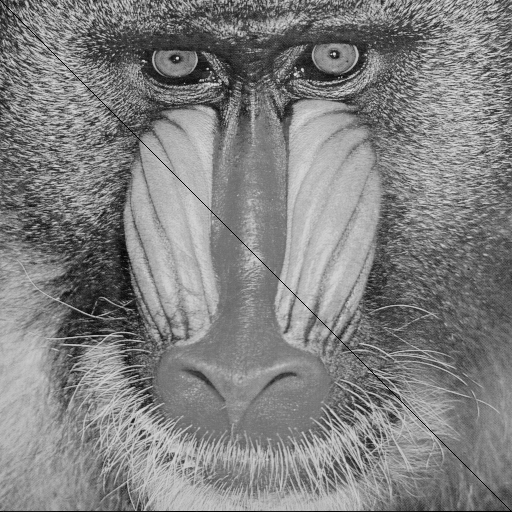
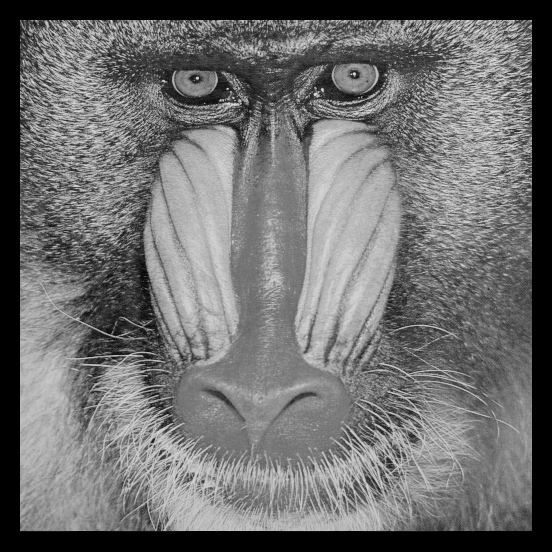
pad image

diff --git a/img_utils.c b/img_utils.c
@@ -1,8 +1,38 @@
+#include <stdlib.h>
+#include <pthread.h>
+
 #define STB_IMAGE_IMPLEMENTATION
 #define STB_IMAGE_WRITE_IMPLEMENTATION
 
 #include "stb_image/stb_image.h"
 #include "stb_image/stb_image_write.h"
+
+#define N_THR 8 
+
+/* pad_line args */
+typedef struct{
+/* 
+pimg: padded image pointer location (h, w, c must be filled)
+img: original image
+p: pad size
+
+The function will pad the lines [start, end-1]
+*/
+    image* pimg;
+    image* img;
+    int p;
+    int start;
+    int end;
+} pad_arg;
+
+void free_img(image* img);
+void read_img(char path[], image* img);
+void write_img(char path[], image img);
+unsigned char read_pixel(image* img, int x, int y);
+void* pad_line(void* args);
+void pad(image* img, image* pimg, int p);
+void free_img(image* img);
+
 
 
 /* 
@@ -43,4 +73,66 @@ unsigned char val: value to store
  */
 void write_pixel(image* img, int x, int y, unsigned char val){
     img->img[y*img->w + x] = val;
+}
+
+
+void* pad_line(void* args){
+/* 
+pads an image with zeros
+pimg: padded image pointer location (h, w, c must be filled)
+img: original image
+p: pad size
+
+The function will pad the lines [start, end-1]
+*/
+    pad_arg* arg = (pad_arg*) args;
+    int start = arg->start;
+    int end = arg->end;
+    int p = arg->p;
+    image* img = arg->img;
+    image* pimg = arg->pimg;
+
+    for (int i=start; i<end; i++){
+        for (int j=0; j<pimg->w; j++){
+            if (i<p || j<p || i>=pimg->h-p || j>=pimg->w-p){
+                write_pixel(pimg, j, i, 0);
+            }
+            else{
+                write_pixel(pimg, j, i, read_pixel(img, j-p, i-p));
+            }
+        }
+    }
+}
+
+void pad(image* img, image* pimg, int p){
+    pimg->h = img->h + 2*p;
+    pimg->w = img->w + 2*p;
+    pimg->c = img->c;
+    pimg->img = malloc(pimg->h*pimg->w * sizeof(unsigned char));
+
+    pthread_t thr[N_THR];
+    pad_arg args[N_THR];
+
+    int n_lines = (int) pimg->h / N_THR;
+
+    for (int i=0; i<N_THR; i++){
+        args[i].pimg = pimg;
+        args[i].img = img;
+        args[i].p = p;
+        args[i].start = n_lines*i;
+        if (i == N_THR-1)
+            args[i].end = pimg->h;
+        else
+            args[i].end = n_lines*(i+1);
+        pthread_create(&thr[i], NULL, pad_line, (void*) &args[i]);
+    }
+
+    for (int i=0; i<N_THR; i++)
+        pthread_join(thr[i], NULL); 
+}
+
+
+void free_img(image* img){
+    free(img->img);
+    free(img);
 }

diff --git a/img_utils.h b/img_utils.h
@@ -8,10 +8,41 @@ typedef struct{
 
 #include "img_utils.c"
 
+/* 
+char path[]: path to the image
+image* img: pointer to an image struct to store the data
+Only supports grayscale images
+ */
 void read_img(char path[], image* img);
 
+
+/* 
+char path[]: write path
+image* img: an image struct to write
+Only supports grayscale images
+ */
 void write_img(char path[], image img);
 
+/* 
+image* img: pointer to the img source to read data
+int x, int y: coordinates
+return: pixel value (0-255)
+ */
 unsigned char read_pixel(image* img, int x, int y);
 
+/* 
+image* img: pointer to the img to write data
+int x, int y: coordinates
+unsigned char val: value to store
+ */
 void write_pixel(image* img, int x, int y, unsigned char val);
+
+
+/* 
+pads an image with zeros
+img = original img
+pimg = pointer to store the new image (allocate it first (ex: malloc))
+p = pad size 
+    suppose a 512x512 image, if p=2, nimg will be 516x516
+ */
+void pad(image* img, image* pimg, int p);

diff --git a/main.c b/main.c
@@ -3,7 +3,7 @@
 
 #include "img_utils.h"
 
-#define N_THREADS 8
+#define N_THR 8 /* number of threads */
 
 /* 
 args:   operation
@@ -21,21 +21,15 @@ int main(int argc, char* arg[]){
     }
     
     image *img = malloc(sizeof(image));
+    image* padded_img = malloc(sizeof(image));
 
     read_img(arg[2], img);
 
-    /* Test: print image, writes black pixels on the main diagonal */
-    for (int i=0; i<img->h; i++){
-        for (int j=0; j<img->w; j++){
-            printf("%d ", read_pixel(img, i, j));
-            if (i==j)
-                write_pixel(img, i, j, 0);
-        }
-        printf("\n");
-    }
+    pad(img, padded_img, 20);
 
-    write_img(arg[3], *img);
+    write_img(arg[3], *padded_img);
 
-    free(img);
+    free_img(img);
+    free_img(padded_img);
     return 0;
 }
